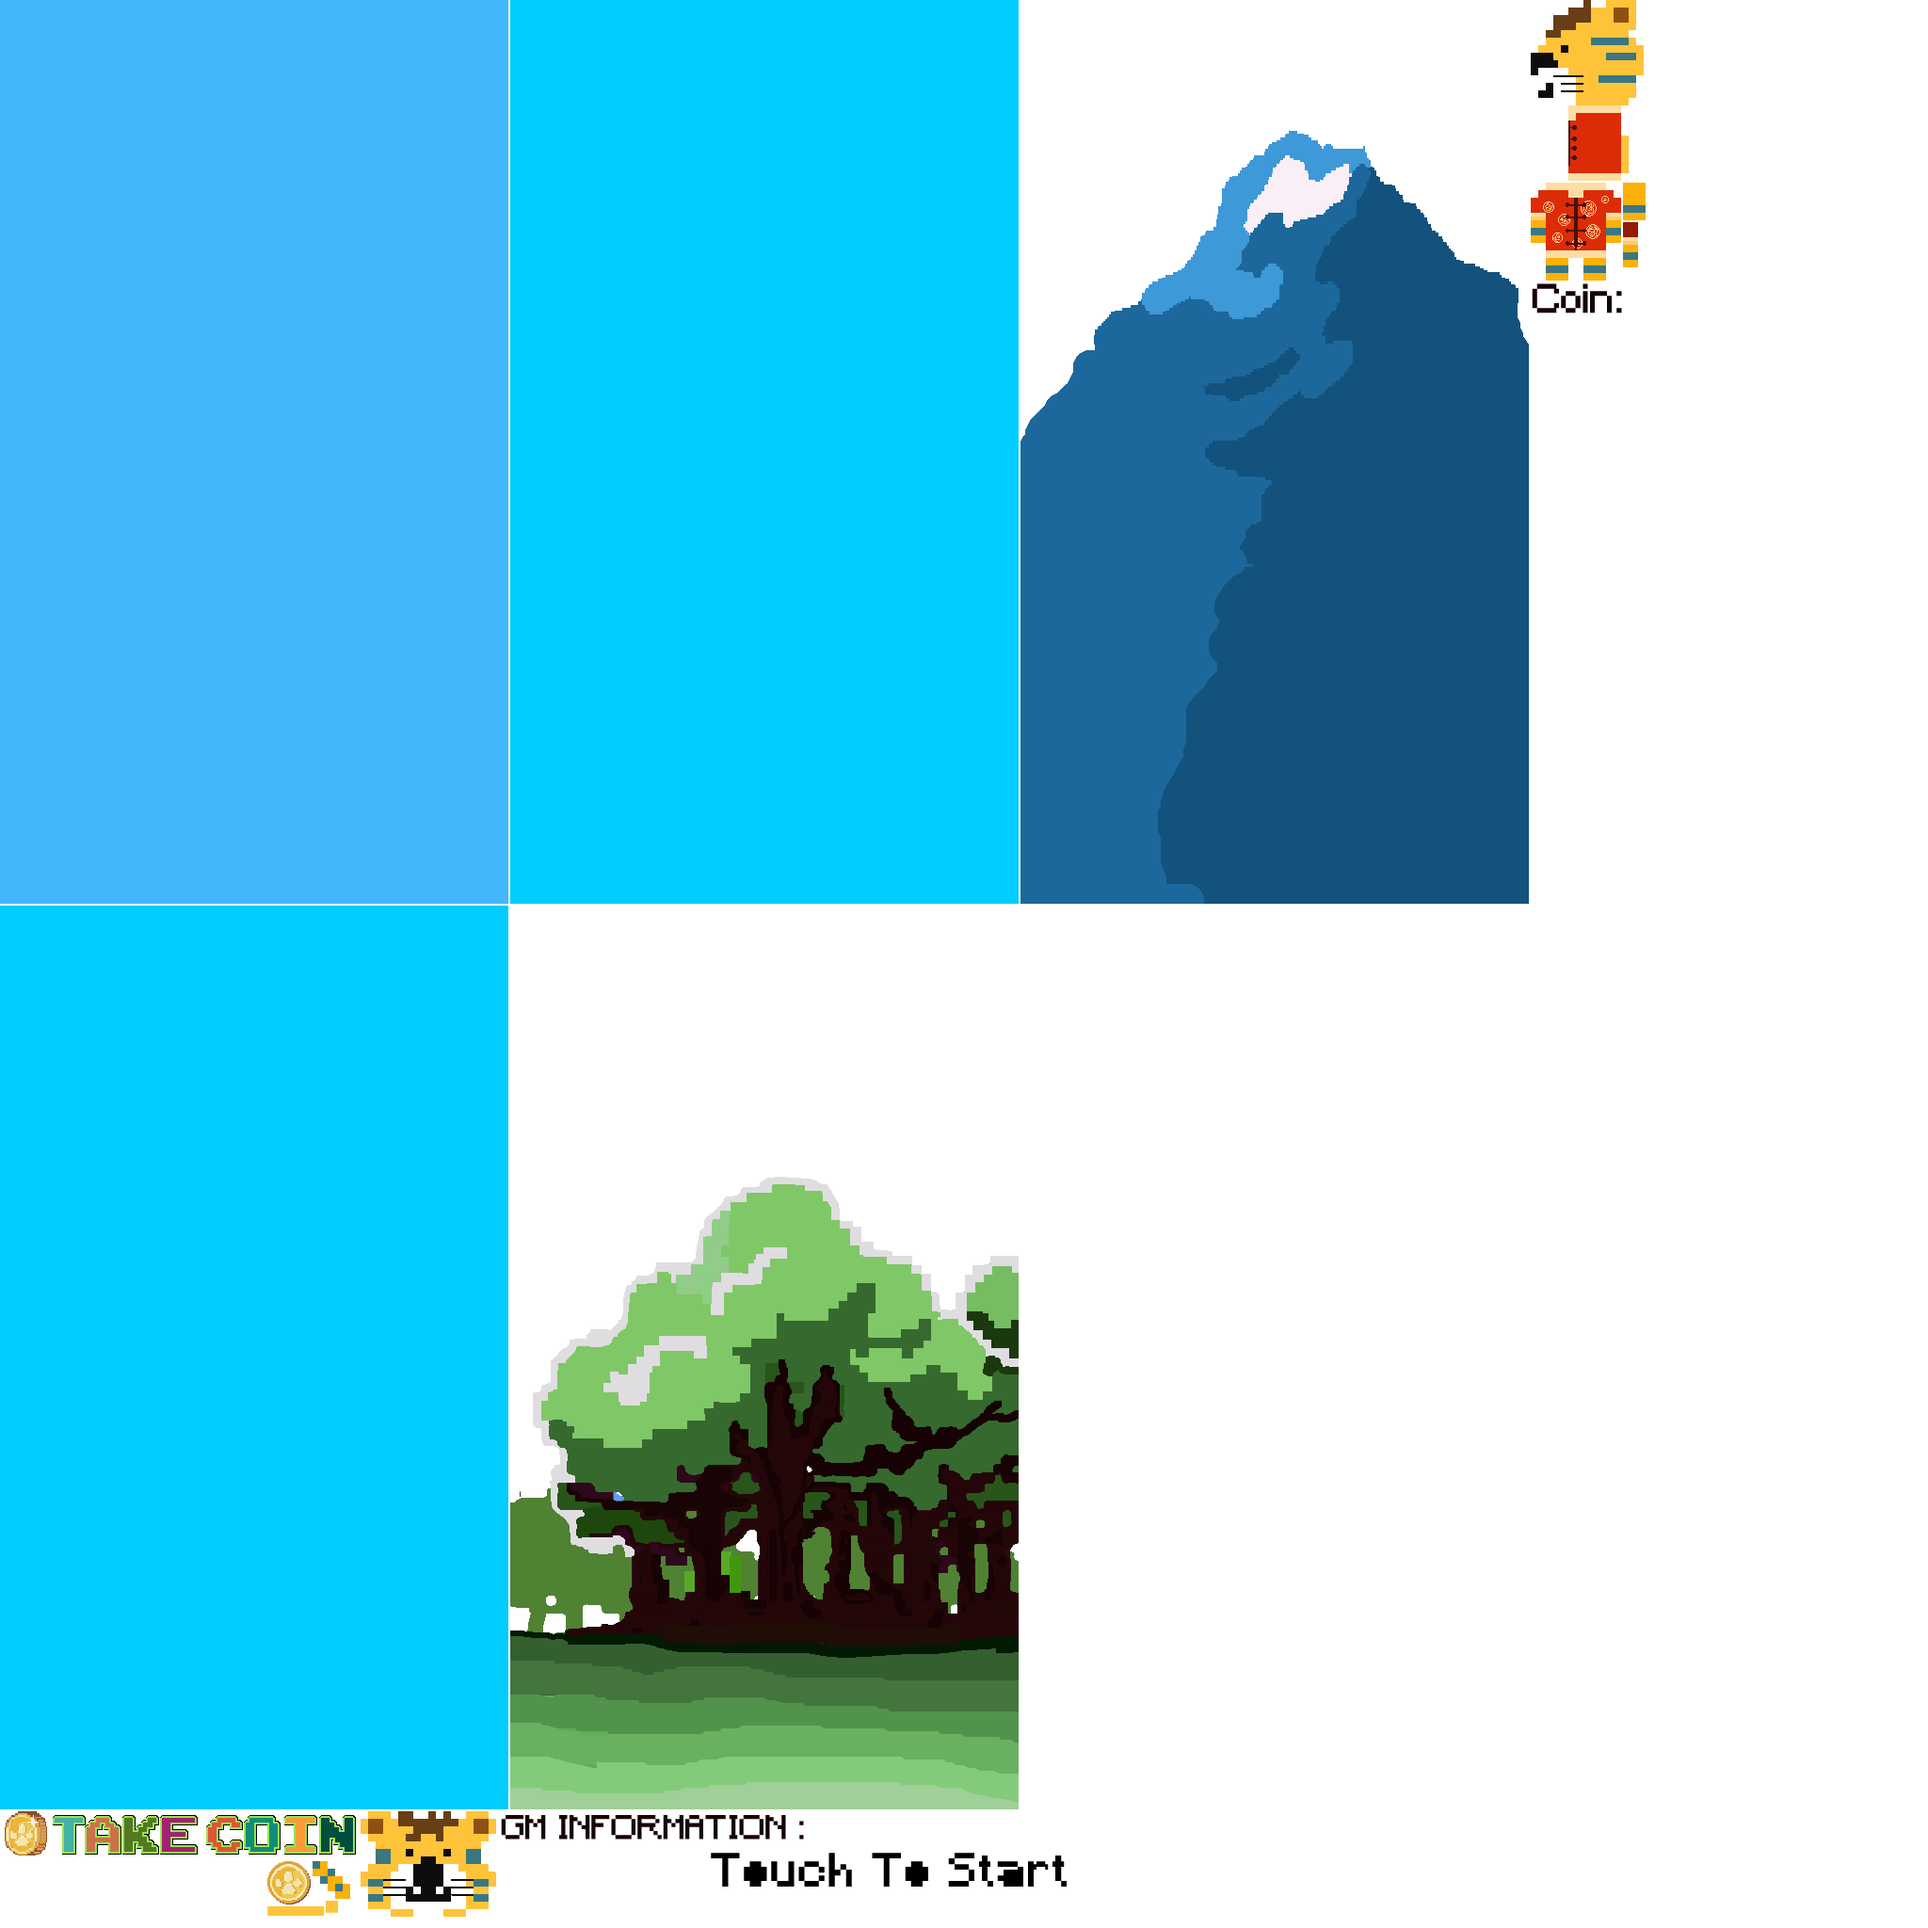
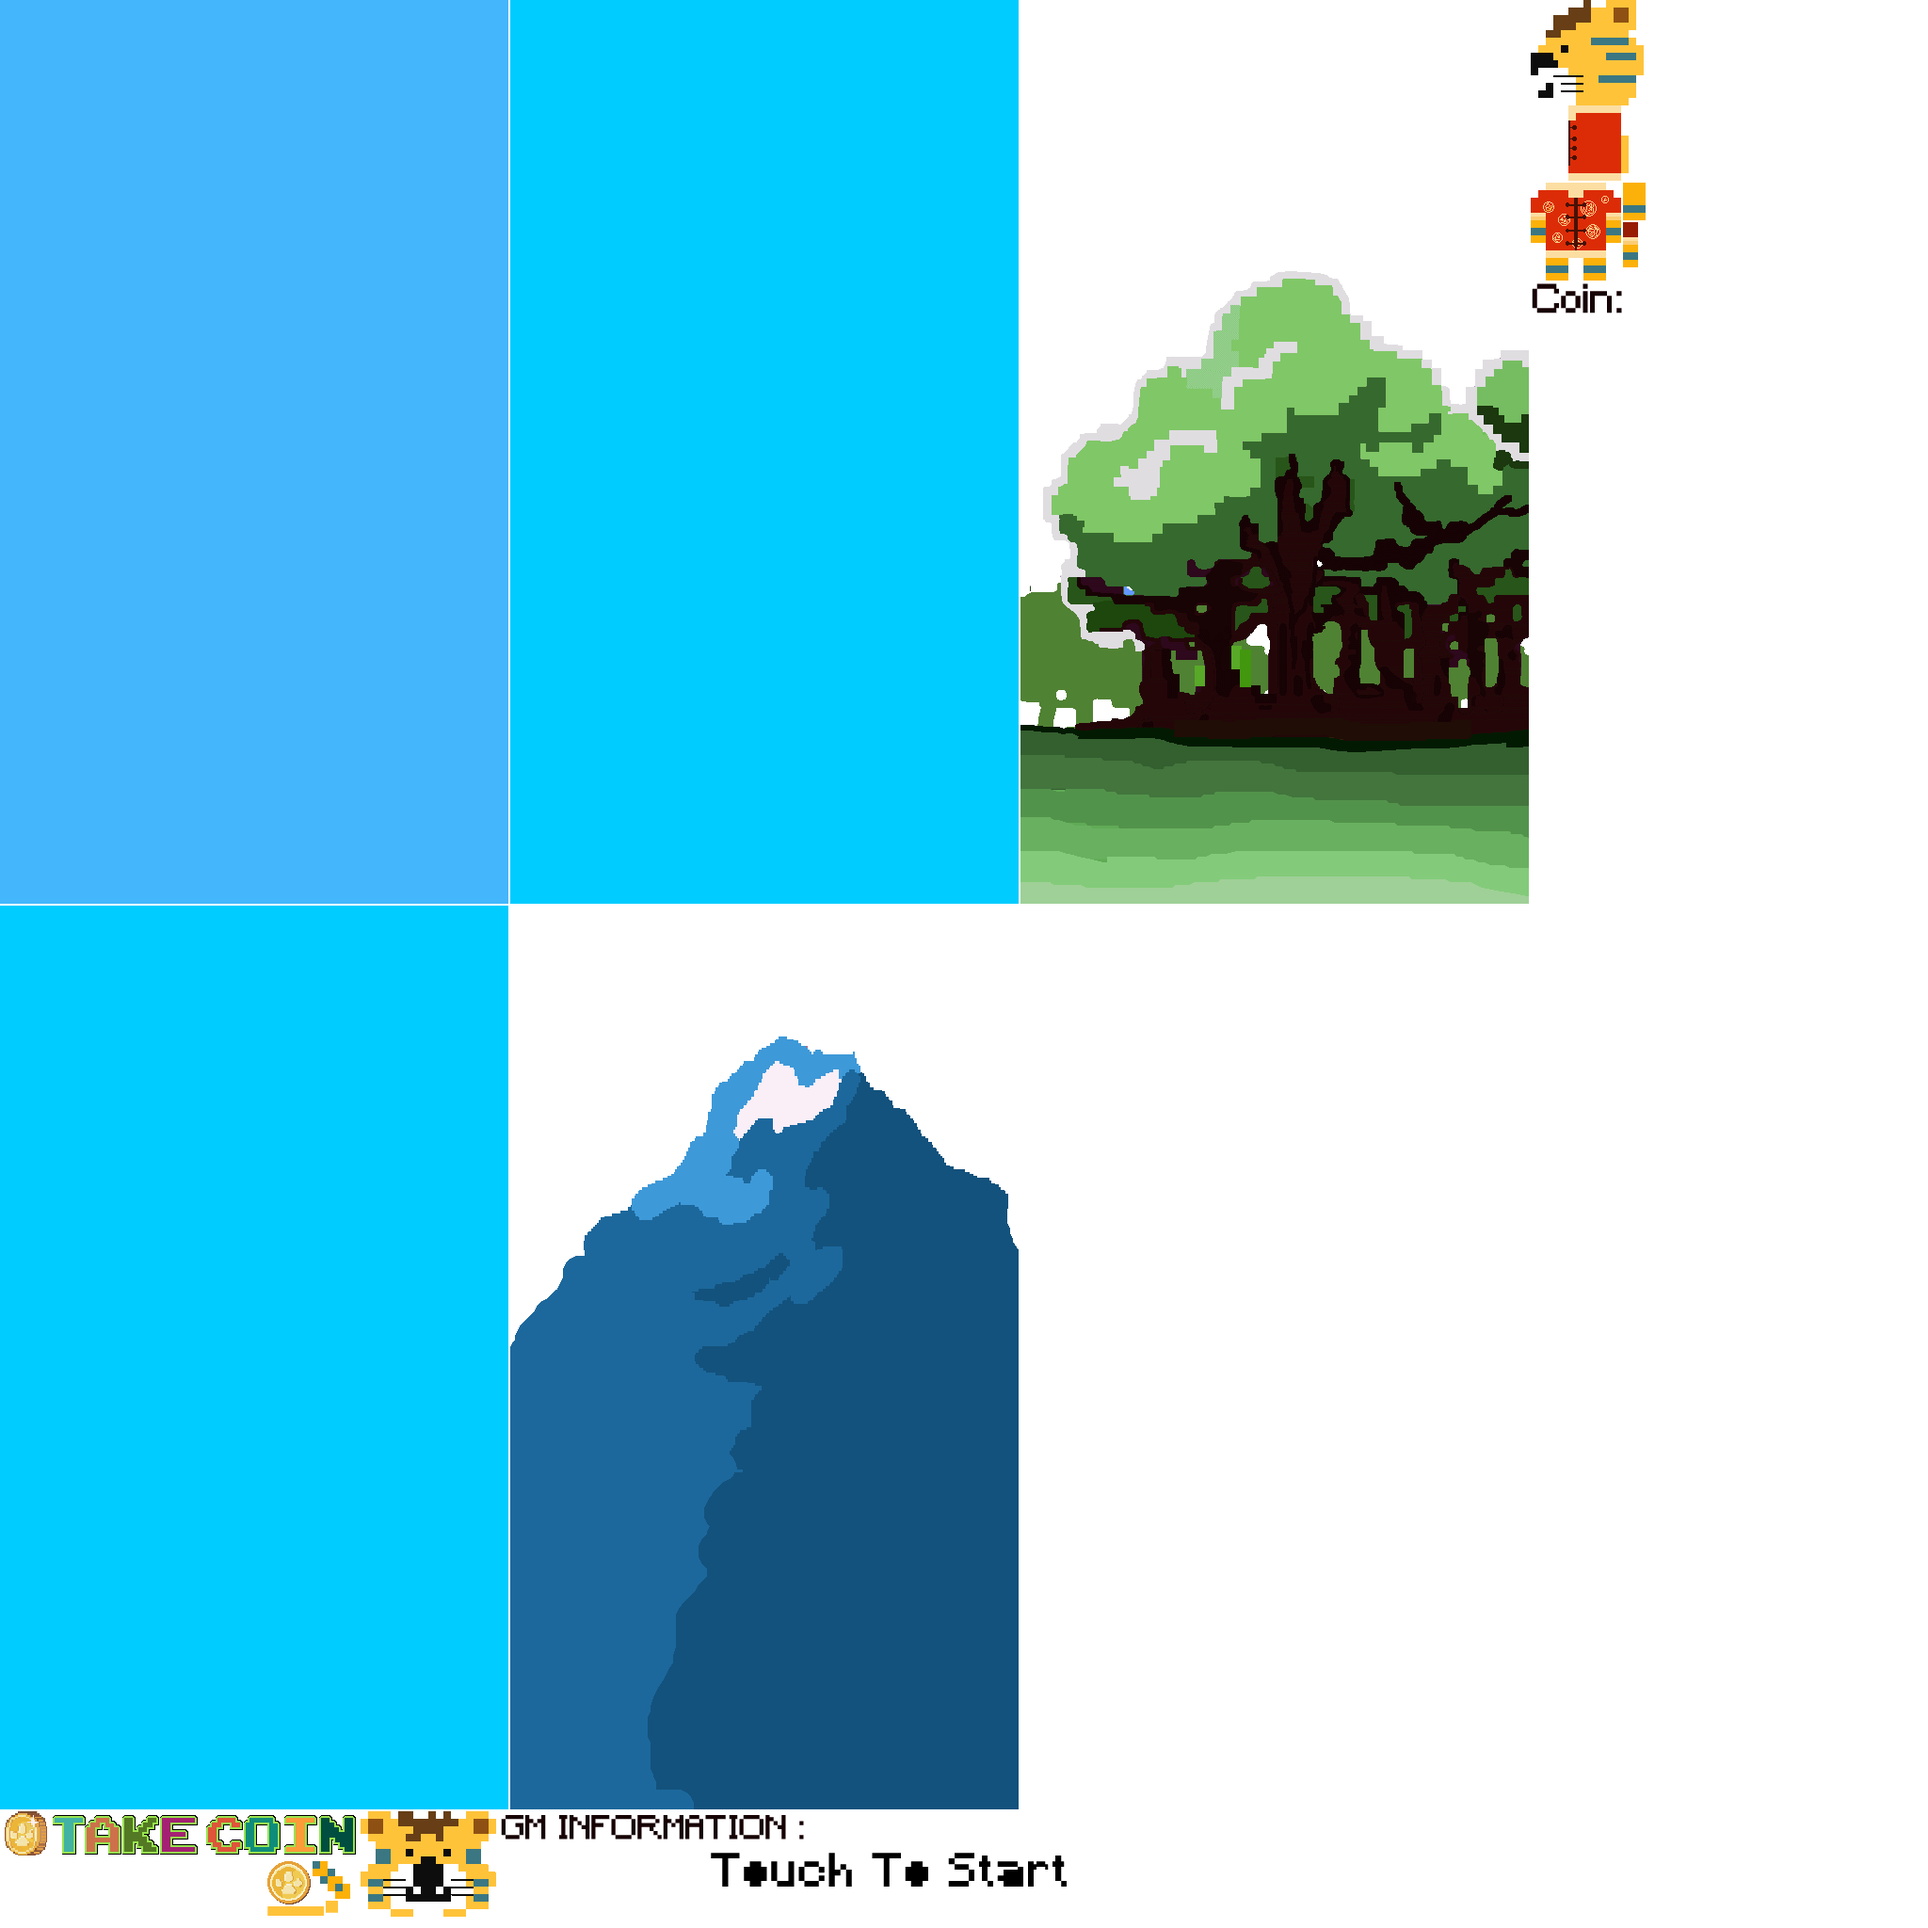
222

Changed region(s): [[0.25, 0.5312, 0.5312, 0.9375], [0.5312, 0.0625, 0.8125, 0.4688]]

diff --git a/CP_T/CanvasPerformanceT.js b/CP_T/CanvasPerformanceT.js
@@ -3,7 +3,7 @@
 var p; // shortcut to reference prototypes
 var lib={};var ss={};var img={};
 lib.ssMetadata = [
-		{name:"CanvasPerformanceT_atlas_", frames: [[0,1977,282,63],[1084,962,635,254],[1084,1218,441,145],[529,1968,224,64],[0,0,540,960],[284,2025,60,10],[346,2019,13,13],[0,962,540,960],[542,0,540,960],[755,1968,378,36],[1626,300,104,45],[529,1924,342,42],[284,1977,46,46],[1626,194,96,104],[383,1924,144,112],[0,1924,381,51],[1626,0,120,192],[1724,236,16,48],[1724,194,24,40],[332,1977,40,40],[542,962,540,960],[1084,0,540,960]]}
+		{name:"CanvasPerformanceT_atlas_", frames: [[0,1977,282,63],[1084,962,635,254],[1084,1218,441,145],[529,1968,224,64],[0,0,540,960],[284,2025,60,10],[346,2019,13,13],[0,962,540,960],[542,0,540,960],[755,1968,378,36],[1626,300,104,45],[529,1924,342,42],[284,1977,46,46],[1626,194,96,104],[383,1924,144,112],[0,1924,381,51],[1626,0,120,192],[1724,236,16,48],[1724,194,24,40],[332,1977,40,40],[1084,0,540,960],[542,962,540,960]]}
 ];
 
 
@@ -958,7 +958,7 @@ lib.properties = {
 	color: "#FFFFFF",
 	opacity: 1.00,
 	manifest: [
-		{src:"images/CanvasPerformanceT_atlas_.png?1641229378362", id:"CanvasPerformanceT_atlas_"}
+		{src:"images/CanvasPerformanceT_atlas_.png?1641229744175", id:"CanvasPerformanceT_atlas_"}
 	],
 	preloads: []
 };

diff --git a/CP_T/CanvasPerformanceT.html b/CP_T/CanvasPerformanceT.html
@@ -13,8 +13,16 @@
 <meta name="authoring-tool" content="Adobe_Animate_CC">
 <title>CanvasPerformanceT</title>
 <!-- write your code here -->
+<style>
+  #animation_container {
+	position:absolute;
+	margin:auto;
+	left:0;right:0;
+	top:0;bottom:0;
+  }
+</style>
 <script src="https://code.createjs.com/createjs-2015.11.26.min.js"></script>
-<script src="CanvasPerformanceT.js?1641229378395"></script>
+<script src="CanvasPerformanceT.js?1641229744207"></script>
 <script>
 var canvas, stage, exportRoot, anim_container, dom_overlay_container, fnStartAnimation;
 function init() {
@@ -51,7 +59,7 @@ function handleComplete(evt,comp) {
 		createjs.Ticker.addEventListener("tick", stage);
 	}	    
 	//Code to support hidpi screens and responsive scaling.
-	AdobeAn.makeResponsive(false,'both',false,1,[canvas,anim_container,dom_overlay_container]);	
+	AdobeAn.makeResponsive(true,'both',true,1,[canvas,anim_container,dom_overlay_container]);	
 	AdobeAn.compositionLoaded(lib.properties.id);
 	fnStartAnimation();
 }
